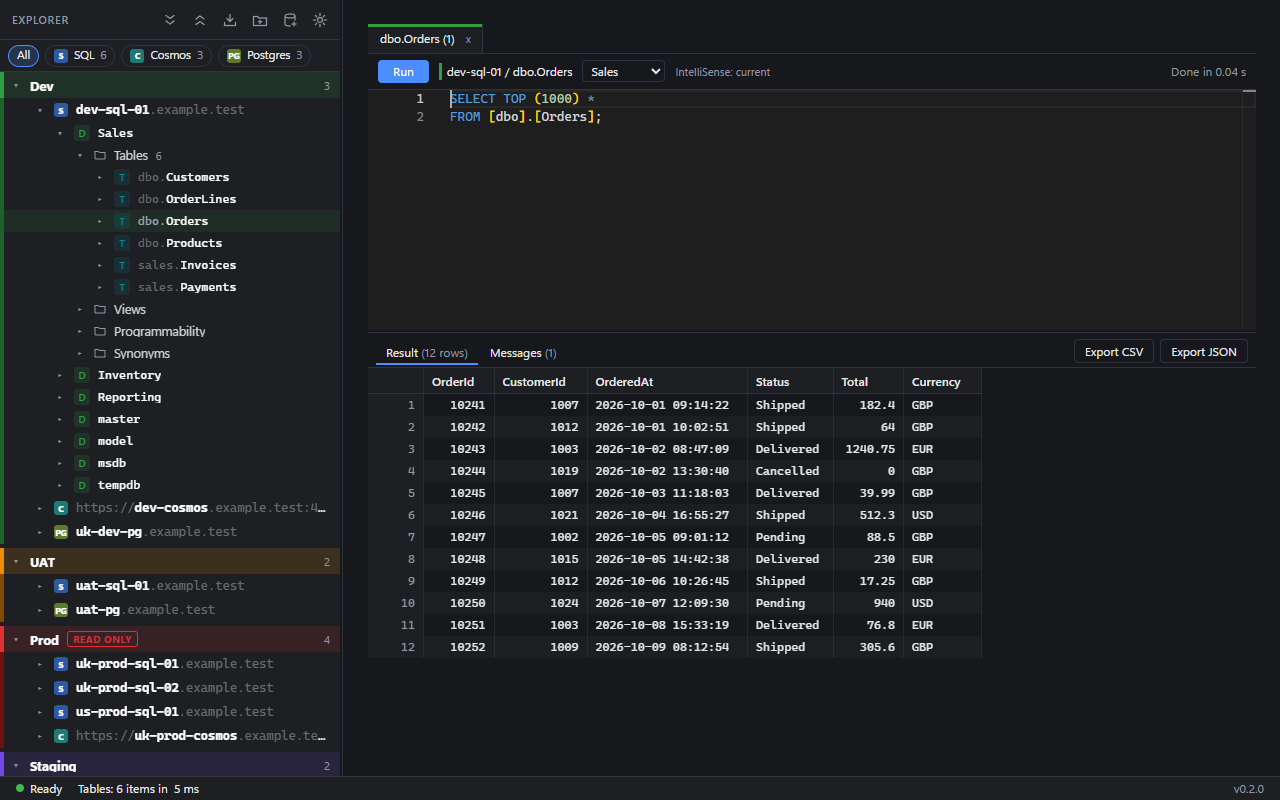
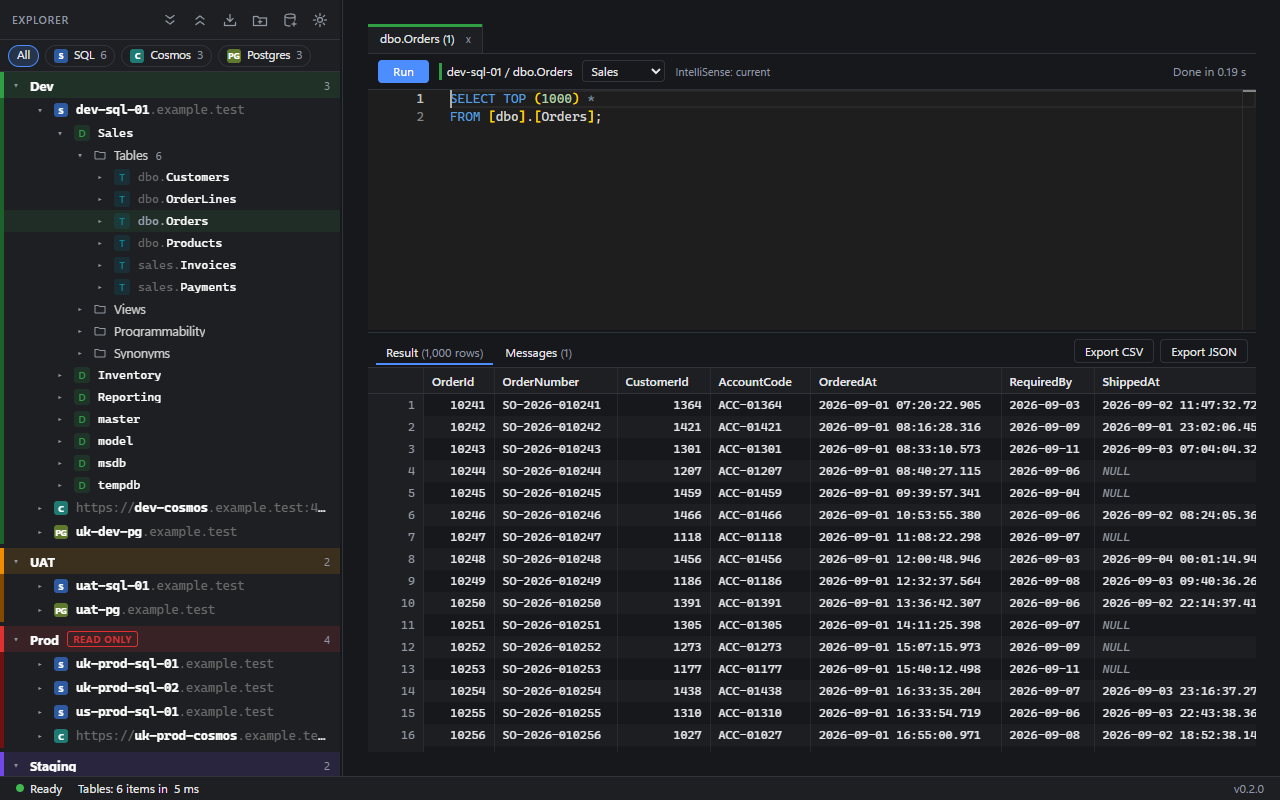
docs(readme): realistic query screenshot, Release moved to docs (#147)
* docs(readme): 1000-row Orders sample in the query screenshot

The preview's dbo.Orders is now 1000 generated rows across 22 columns, streamed in 500-row batches, so Select top 1000 looks like a real table. Screenshots recaptured with the green Ready dot from #143. Refs #138

* docs(release): move the release process out of the README

Refs #138

Changed region(s): [[0.3438, 0.4375, 0.9688, 0.9375], [0.9062, 0.0625, 0.9688, 0.0938]]

diff --git a/apps/desktop/src/preview/fake-sidecar.ts b/apps/desktop/src/preview/fake-sidecar.ts
@@ -118,20 +118,85 @@ function children(id: string): TreeNode[] {
   return [];
 }
 
-const ORDERS = [
-  [10241, 1007, "2026-10-01 09:14:22", "Shipped", 182.4, "GBP"],
-  [10242, 1012, "2026-10-01 10:02:51", "Shipped", 64.0, "GBP"],
-  [10243, 1003, "2026-10-02 08:47:09", "Delivered", 1240.75, "EUR"],
-  [10244, 1019, "2026-10-02 13:30:40", "Cancelled", 0, "GBP"],
-  [10245, 1007, "2026-10-03 11:18:03", "Delivered", 39.99, "GBP"],
-  [10246, 1021, "2026-10-04 16:55:27", "Shipped", 512.3, "USD"],
-  [10247, 1002, "2026-10-05 09:01:12", "Pending", 88.5, "GBP"],
-  [10248, 1015, "2026-10-05 14:42:38", "Delivered", 230.0, "EUR"],
-  [10249, 1012, "2026-10-06 10:26:45", "Shipped", 17.25, "GBP"],
-  [10250, 1024, "2026-10-07 12:09:30", "Pending", 940.0, "USD"],
-  [10251, 1003, "2026-10-08 15:33:19", "Delivered", 76.8, "EUR"],
-  [10252, 1009, "2026-10-09 08:12:54", "Shipped", 305.6, "GBP"],
+// dbo.Orders: 1000 rows like a real order table, from a fixed seed so every capture is identical.
+const ORDER_COLUMNS = [
+  { name: "OrderId", type: "int" },
+  { name: "OrderNumber", type: "nvarchar(20)" },
+  { name: "CustomerId", type: "int" },
+  { name: "AccountCode", type: "char(9)" },
+  { name: "OrderedAt", type: "datetime2(3)" },
+  { name: "RequiredBy", type: "date" },
+  { name: "ShippedAt", type: "datetime2(3)" },
+  { name: "Status", type: "nvarchar(20)" },
+  { name: "Channel", type: "nvarchar(20)" },
+  { name: "Region", type: "nvarchar(16)" },
+  { name: "Warehouse", type: "char(5)" },
+  { name: "ItemCount", type: "smallint" },
+  { name: "Currency", type: "char(3)" },
+  { name: "Subtotal", type: "decimal(12,2)" },
+  { name: "Discount", type: "decimal(12,2)" },
+  { name: "Tax", type: "decimal(12,2)" },
+  { name: "Shipping", type: "decimal(12,2)" },
+  { name: "Total", type: "decimal(12,2)" },
+  { name: "PaymentMethod", type: "nvarchar(16)" },
+  { name: "IsPriority", type: "bit" },
+  { name: "PromoCode", type: "nvarchar(16)" },
+  { name: "CreatedBy", type: "sysname" },
 ];
+
+function orders(): (string | number | boolean | null)[][] {
+  let seed = 20261031;
+  const rand = () => ((seed = (seed * 1103515245 + 12345) % 2147483648) / 2147483648);
+  const pick = <T>(xs: T[]) => xs[Math.floor(rand() * xs.length)];
+  const pad = (n: number, w = 2) => String(n).padStart(w, "0");
+  const stamp = (d: Date) =>
+    `${d.getUTCFullYear()}-${pad(d.getUTCMonth() + 1)}-${pad(d.getUTCDate())} ${pad(d.getUTCHours())}:${pad(d.getUTCMinutes())}:${pad(d.getUTCSeconds())}.${pad(d.getUTCMilliseconds(), 3)}`;
+  const day = (d: Date) => stamp(d).slice(0, 10);
+  const money = (n: number) => Math.round(n * 100) / 100;
+  const regions: [string, string, number][] = [["UK-North", "GBP", 0.2], ["UK-South", "GBP", 0.2], ["EU-West", "EUR", 0.21], ["US-East", "USD", 0.0725]];
+  const statuses = ["Delivered", "Delivered", "Delivered", "Shipped", "Shipped", "Picking", "Pending", "Cancelled", "Returned"];
+  const rows: (string | number | boolean | null)[][] = [];
+  let at = Date.UTC(2026, 8, 1, 7, 12, 4, 211);
+  for (let i = 0; i < 1000; i++) {
+    at += Math.floor(rand() * 75 * 60_000);
+    const ordered = new Date(at);
+    const [region, currency, rate] = pick(regions);
+    const status = pick(statuses);
+    const items = 1 + Math.floor(rand() * rand() * 24);
+    const subtotal = money(items * (4.5 + rand() * 120));
+    const discount = rand() < 0.25 ? money(subtotal * pick([0.05, 0.1, 0.15])) : 0;
+    const shipping = subtotal - discount > 75 ? 0 : pick([3.95, 4.99, 6.5, 9.99]);
+    const tax = money((subtotal - discount) * rate);
+    const shipped = ["Shipped", "Delivered", "Returned"].includes(status) ? stamp(new Date(at + (6 + rand() * 60) * 3_600_000)) : null;
+    const customer = 1000 + Math.floor(rand() * 480);
+    rows.push([
+      10241 + i,
+      `SO-2026-${pad(10241 + i, 6)}`,
+      customer,
+      `ACC-${pad(customer, 5)}`,
+      stamp(ordered),
+      day(new Date(at + (2 + Math.floor(rand() * 9)) * 86_400_000)),
+      shipped,
+      status,
+      pick(["Web", "Web", "Web", "Phone", "Partner", "Marketplace"]),
+      region,
+      pick(["WH-01", "WH-02", "WH-03", "WH-04"]),
+      items,
+      currency,
+      subtotal,
+      discount,
+      tax,
+      shipping,
+      money(subtotal - discount + tax + shipping),
+      pick(["Card", "Card", "Card", "Invoice", "Transfer", "Wallet"]),
+      rand() < 0.12,
+      discount > 0 ? pick(["AUTUMN10", "WELCOME5", "BULK15", "LOYAL10"]) : null,
+      pick(["web-checkout", "web-checkout", "phone-desk", "partner-api", "import-job"]),
+    ]);
+  }
+  return rows;
+}
+const ORDERS = orders();
 
 type Request = { id?: number; method: string; params?: Record<string, unknown> };
 const reply = (line: unknown) => setTimeout(() => void emit("sidecar://message", JSON.stringify(line)), 5);
@@ -180,23 +245,17 @@ function handle(req: Request): unknown {
     case "catalog.get":
     case "catalog.refresh": {
       const scope = scopeOf(String(p.nodeId));
-      const objects = TABLES.map(([schema, name]) => ({ schema, name, kind: "table", columns: [] }));
+      const objects = TABLES.map(([schema, name]) => ({ schema, name, kind: "table", columns: name === "Orders" ? ORDER_COLUMNS.map((c) => ({ name: c.name, type: c.type, nullable: ["ShippedAt", "PromoCode"].includes(c.name) })) : [] }));
       return { key: `${scope.connection}|${p.database ?? scope.database ?? ""}`, state: "current", catalog: { stamp: "1", schemas: ["dbo", "sales"], objects, types: [] } };
     }
     case "query.execute": {
       const queryId = String(p.queryId);
-      const columns = [
-        { name: "OrderId", type: "int" },
-        { name: "CustomerId", type: "int" },
-        { name: "OrderedAt", type: "datetime2" },
-        { name: "Status", type: "nvarchar" },
-        { name: "Total", type: "decimal" },
-        { name: "Currency", type: "char" },
-      ];
-      notify("query.rows", { queryId, index: 0, columns, rows: ORDERS });
-      notify("query.message", { queryId, kind: "info", text: `(${ORDERS.length} rows affected)`, elapsedMs: 38 });
+      // Streamed in 500-row batches, as the sidecar sends them.
+      for (let i = 0; i < ORDERS.length; i += 500)
+        notify("query.rows", { queryId, index: 0, columns: i === 0 ? ORDER_COLUMNS : undefined, rows: ORDERS.slice(i, i + 500) });
+      notify("query.message", { queryId, kind: "info", text: `(${ORDERS.length} rows affected)`, elapsedMs: 184 });
       return new Promise((resolve) =>
-        setTimeout(() => resolve({ queryId, resultSets: [{ rowCount: ORDERS.length }], elapsedMs: 41, rolledBack: false, committed: false, cancelled: false }), 40),
+        setTimeout(() => resolve({ queryId, resultSets: [{ rowCount: ORDERS.length }], elapsedMs: 187, rolledBack: false, committed: false, cancelled: false }), 40),
       );
     }
     default:

diff --git a/README.md b/README.md
@@ -53,7 +53,7 @@ scope; SSMS stays the tool for those.
 - **Updates.** Panoptic updates itself from GitHub Releases, and a What's new tab shows what
   changed. No telemetry; the update check is the only outbound call.
 
-![A query tab running Select top 1000 against a sample Orders table, with twelve rows in the results grid and a Messages tab](docs/images/readme/query.png)
+![A query tab running Select top 1000 against a sample Orders table, with 1,000 rows across 22 columns in the results grid and a Messages tab](docs/images/readme/query.png)
 
 *Select top 1000 on a table, with results and messages (sample data).*
 
@@ -98,37 +98,15 @@ real store; `scripts\dev-seeded.ps1 -Reset` seeds it again. Test's first three c
 local Docker databases from `scripts\dev-db.ps1`; the rest are synthetic and fail to expand.
 
 Locally, `pnpm build` writes the installer to `apps/desktop/src-tauri/target/release/bundle/nsis/`
-and then fails at signing the update, because the updater's private key is only in GitHub Secrets
-(see Release). The installer it wrote is complete.
+and then fails at signing the update, because the updater's private key is only in GitHub Secrets.
+The installer it wrote is complete.
+
+How releases, versions and change fragments work is in [docs/release.md](docs/release.md).
 
 The UI is Svelte 5 in a Tauri 2 shell. Data access runs in a .NET 10 sidecar over JSON-RPC on
 stdio, because Microsoft.Data.SqlClient and the Cosmos .NET SDK are the mature drivers with
 Entra support. Why the sidecar is a self-contained JIT build rather than Native AOT is in
 [ADR 0001](docs/adr/0001-stack.md).
-
-## Release
-
-Every merge to `main` releases automatically as `<major>.<minor>.<run number>`; there is no
-tag step. To start a new series, bump the minor on a branch with
-`.\scripts\set-version.ps1 -Version 0.3.0` and merge it.
-
-Any feat or fix pull request adds a change fragment, `changes/<short-name>.md`, with one
-user-facing line starting `Added:`, `Changed:`, `Fixed:` or `Removed:` (CI checks; see
-[changes/README.md](changes/README.md)). The release notes, the What's new tab in the app and
-`latest.json` are all generated from these fragments (ADR 0013).
-
-The Release workflow builds the installer and portable zip, signs the update with the updater key
-in GitHub Secrets and publishes `latest.json`. The private key lives outside the repo; if it
-is lost, installed copies can no longer update.
-
-Each release is built as a draft and published only as the last step, after
-`scripts\check-release-assets.ps1` confirms the setup.exe, its `.sig`, `latest.json` and the
-portable zip are all attached. Installed copies update from `releases/latest`, which ignores
-drafts, so they never see a half-published release; the tag is created when the draft is
-published. A cancelled or failed run leaves an untagged draft. A newer merge does not touch it:
-it ships its own version, and the stale draft is inert, so delete it from the Releases page when
-convenient. Do not re-run an old cancelled release after a newer one shipped, as publishing it
-would make the older version latest.
 
 ## License
 

diff --git a/docs/release.md b/docs/release.md
@@ -1,0 +1,23 @@
+# Releasing Panoptic
+
+Every merge to `main` releases automatically as `<major>.<minor>.<run number>`; there is no
+tag step. To start a new series, bump the minor on a branch with
+`.\scripts\set-version.ps1 -Version 0.3.0` and merge it.
+
+Any feat or fix pull request adds a change fragment, `changes/<short-name>.md`, with one
+user-facing line starting `Added:`, `Changed:`, `Fixed:` or `Removed:` (CI checks; see
+[changes/README.md](../changes/README.md)). The release notes, the What's new tab in the app and
+`latest.json` are all generated from these fragments ([ADR 0013](adr/0013-changelog.md)).
+
+The Release workflow builds the installer and portable zip, signs the update with the updater key
+in GitHub Secrets and publishes `latest.json`. The private key lives outside the repo; if it
+is lost, installed copies can no longer update.
+
+Each release is built as a draft and published only as the last step, after
+`scripts\check-release-assets.ps1` confirms the setup.exe, its `.sig`, `latest.json` and the
+portable zip are all attached. Installed copies update from `releases/latest`, which ignores
+drafts, so they never see a half-published release; the tag is created when the draft is
+published. A cancelled or failed run leaves an untagged draft. A newer merge does not touch it:
+it ships its own version, and the stale draft is inert, so delete it from the Releases page when
+convenient. Do not re-run an old cancelled release after a newer one shipped, as publishing it
+would make the older version latest.
